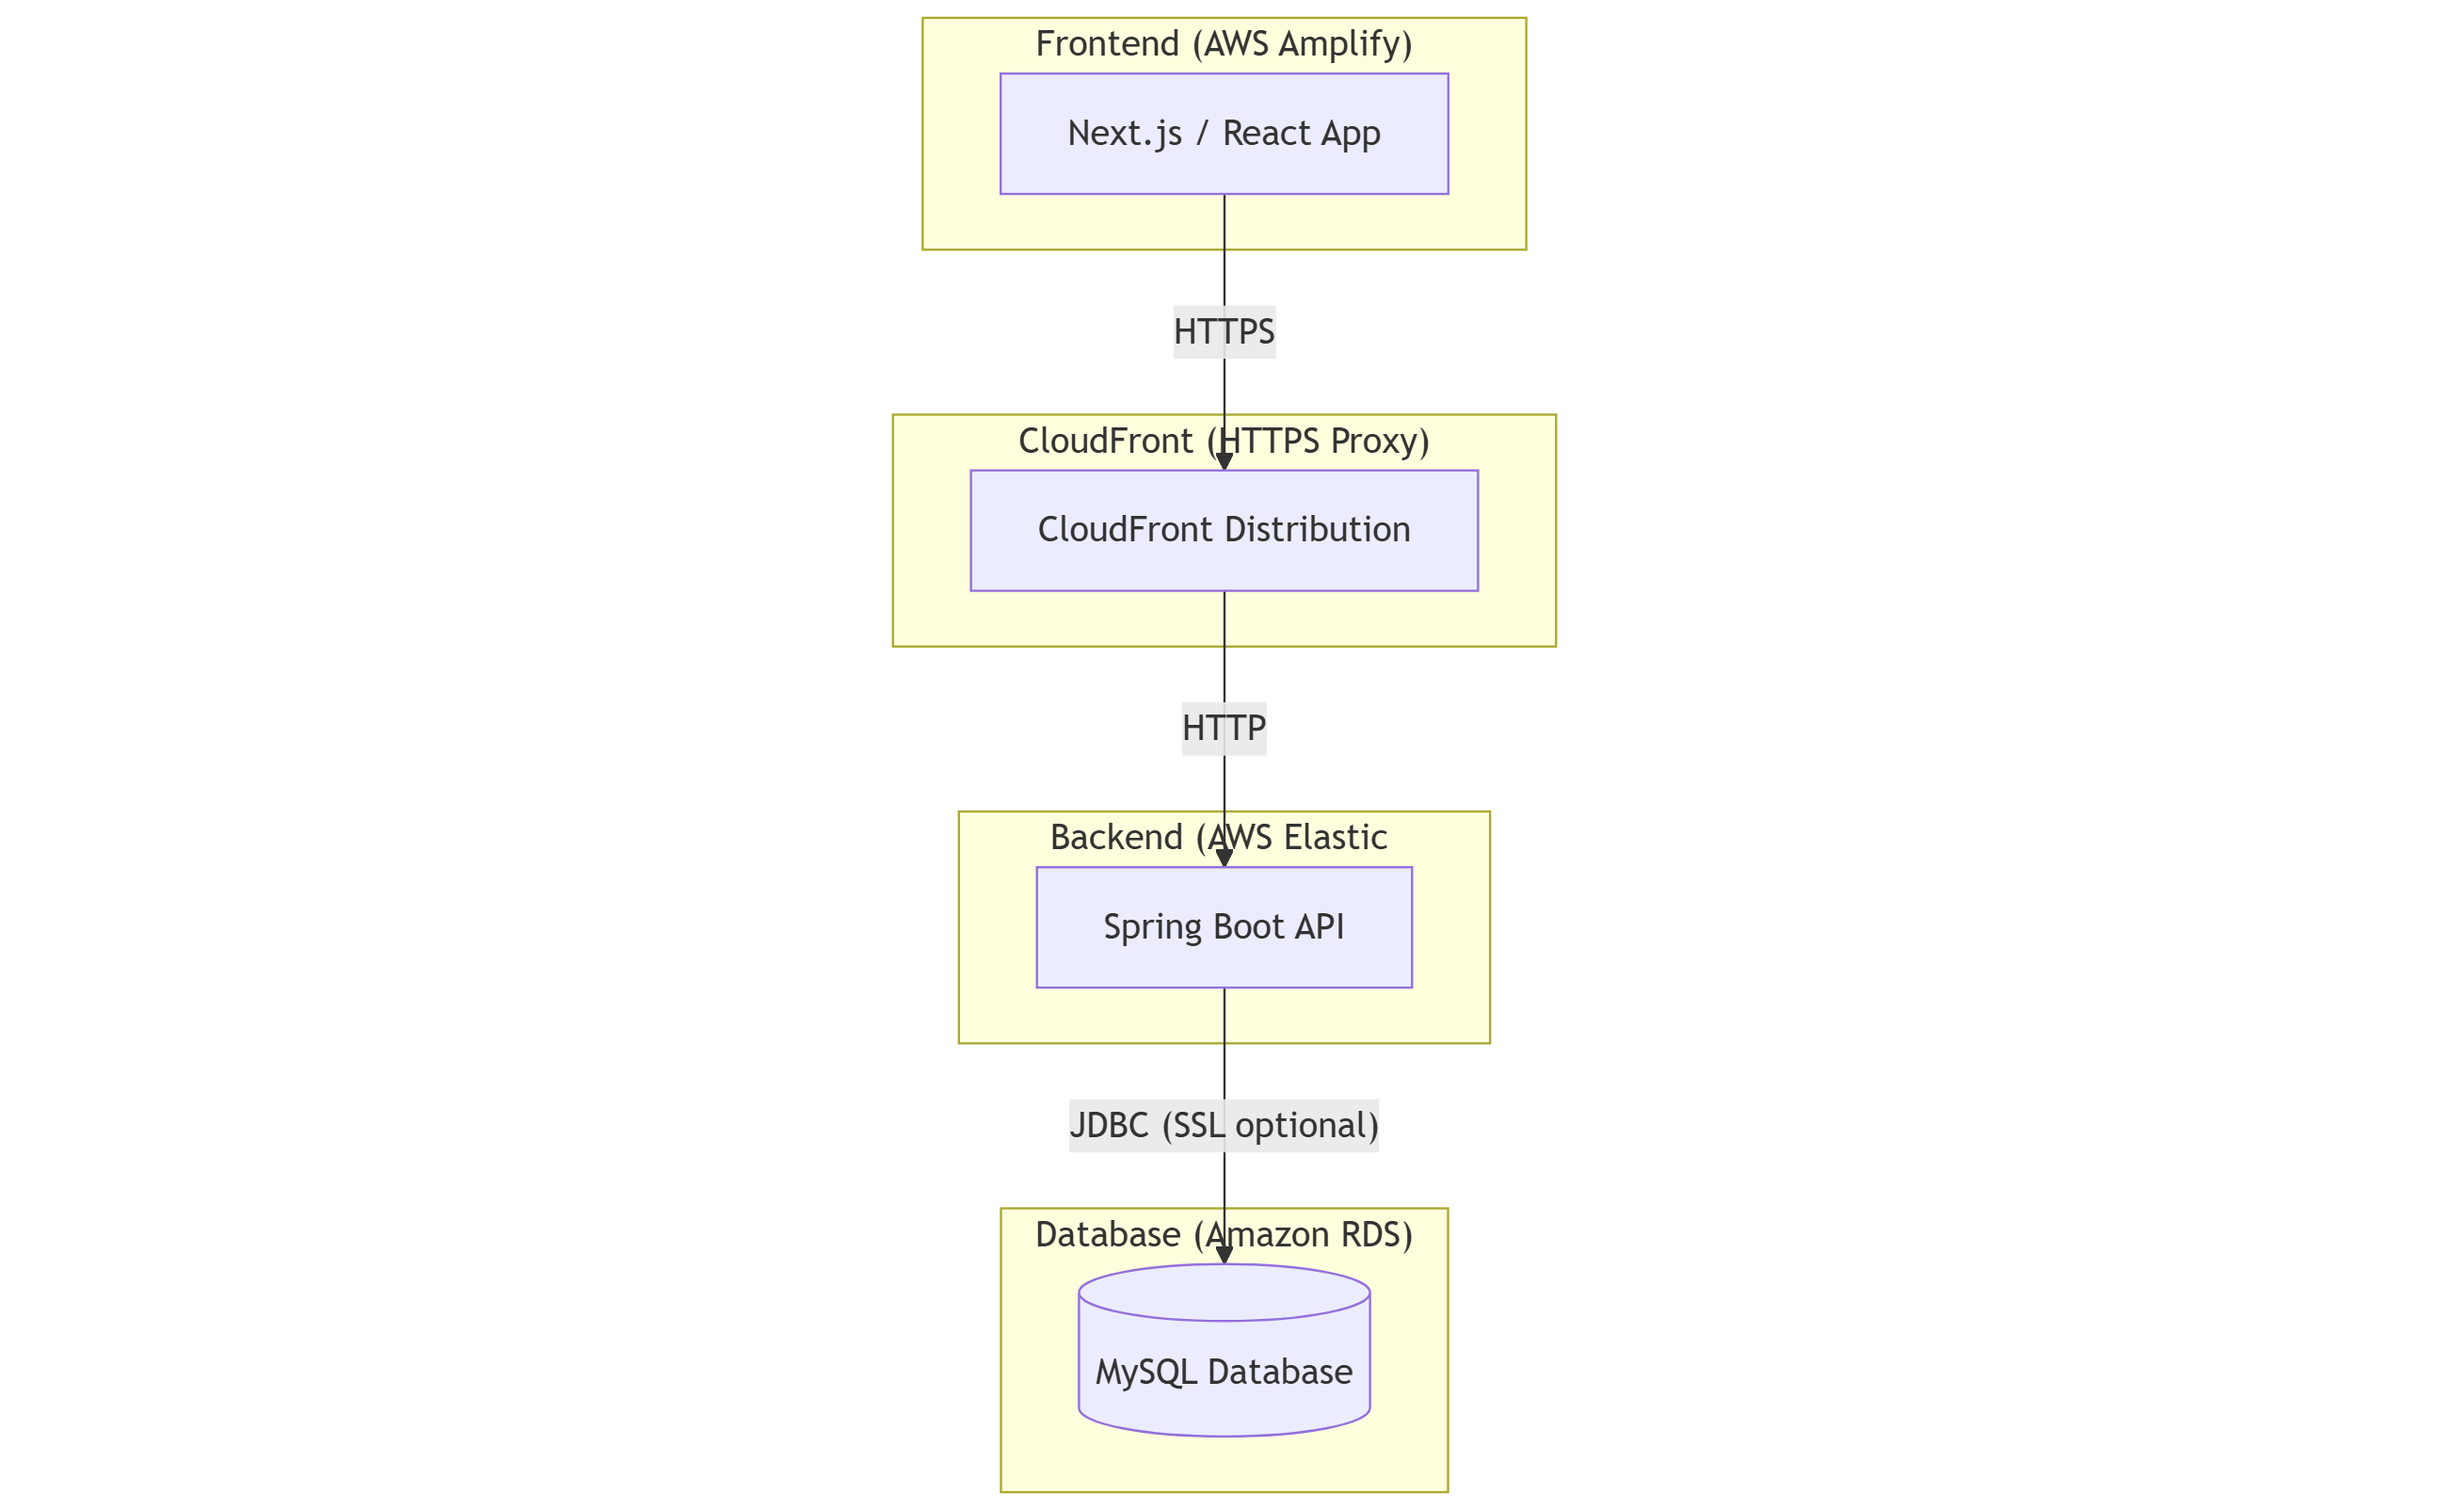
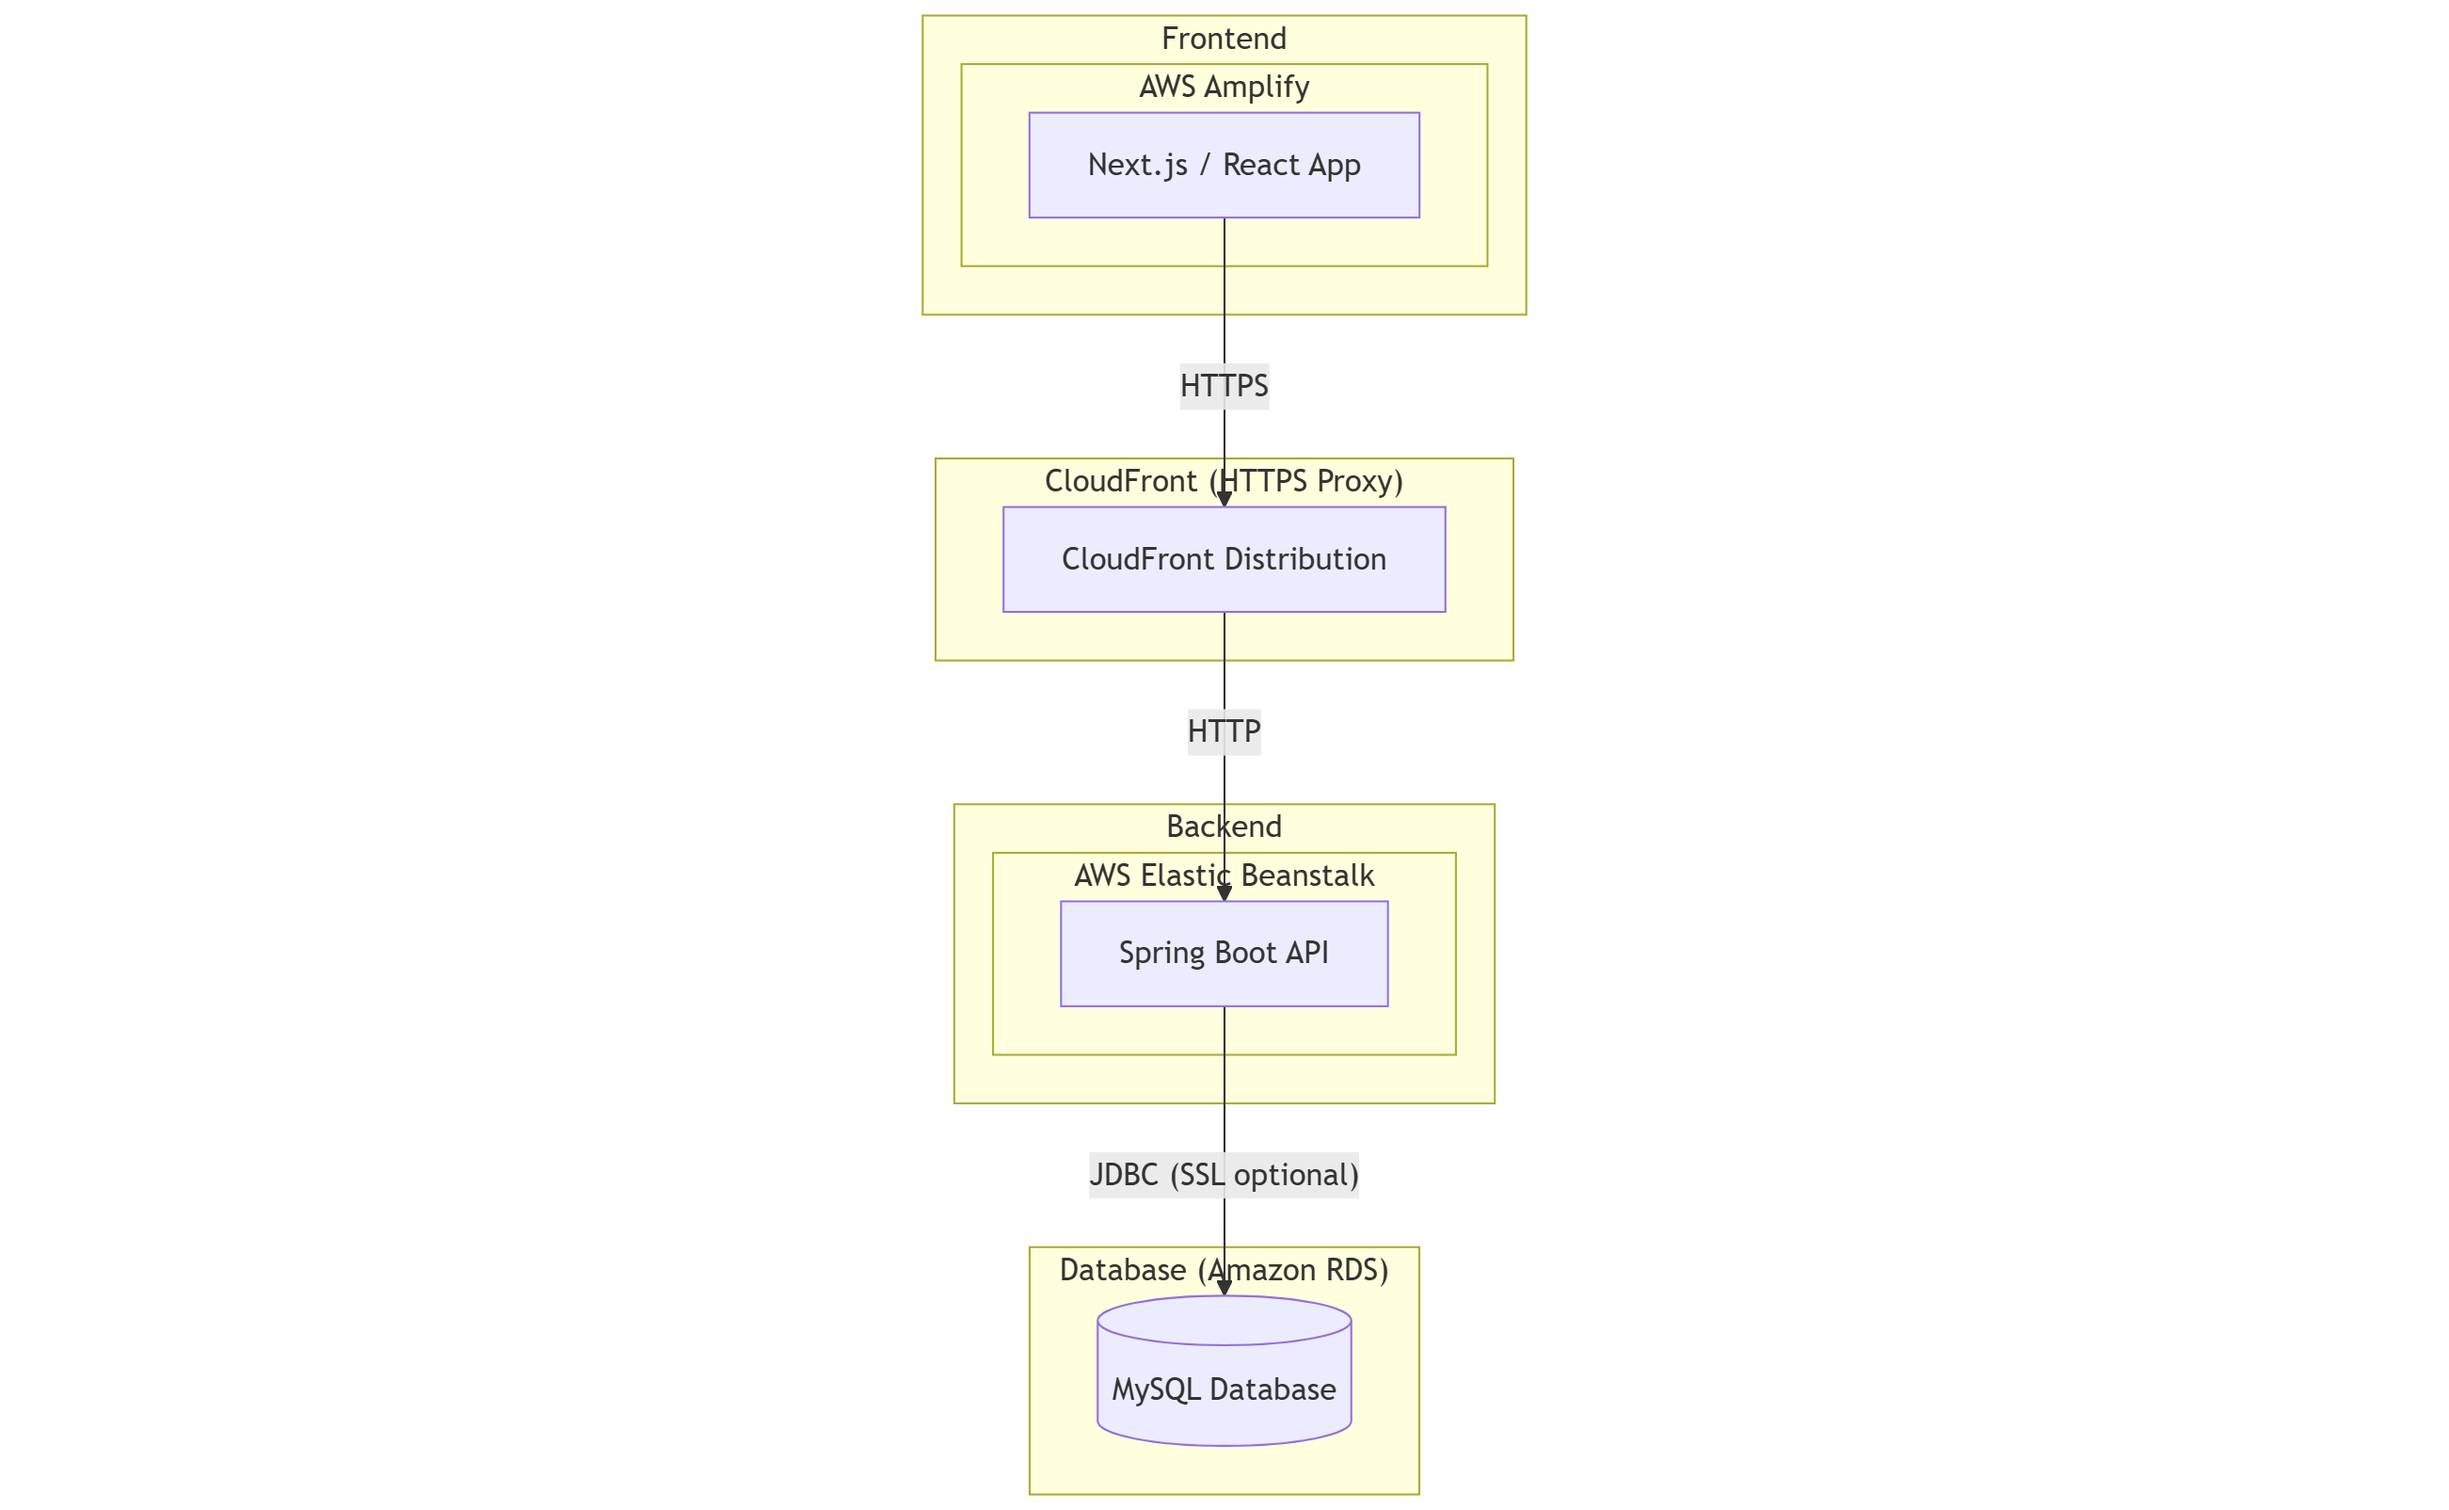
new diagrams

Changed region(s): [[0.3424, 0.0, 0.6537, 0.4364], [0.3736, 0.5299, 0.6226, 0.9975], [0.4669, 0.4676, 0.5292, 0.4988]]

diff --git a/README.md b/README.md
@@ -407,3 +407,13 @@ NEXT_PUBLIC_API_URL=https://<your-cloudfront-distribution>.cloudfront.net
 ```
 
 > **Note:** The `NEXT_PUBLIC_` prefix is required in Next.js/React so that variables are exposed to the browser.
+
+### Network Diagram
+
+![Network Diagram](/docs/network.png)
+
+This diagram illustrates the network architecture, including Virtual Private Cloud (VPC), subnets, gateways, EC2, RDS, and image storage components
+
+---
+#### Group 1 - Emerging Trends - INTP-302-A - Spring 2025
+#####  Southern Alberta Instritute of Technology (SAIT)
